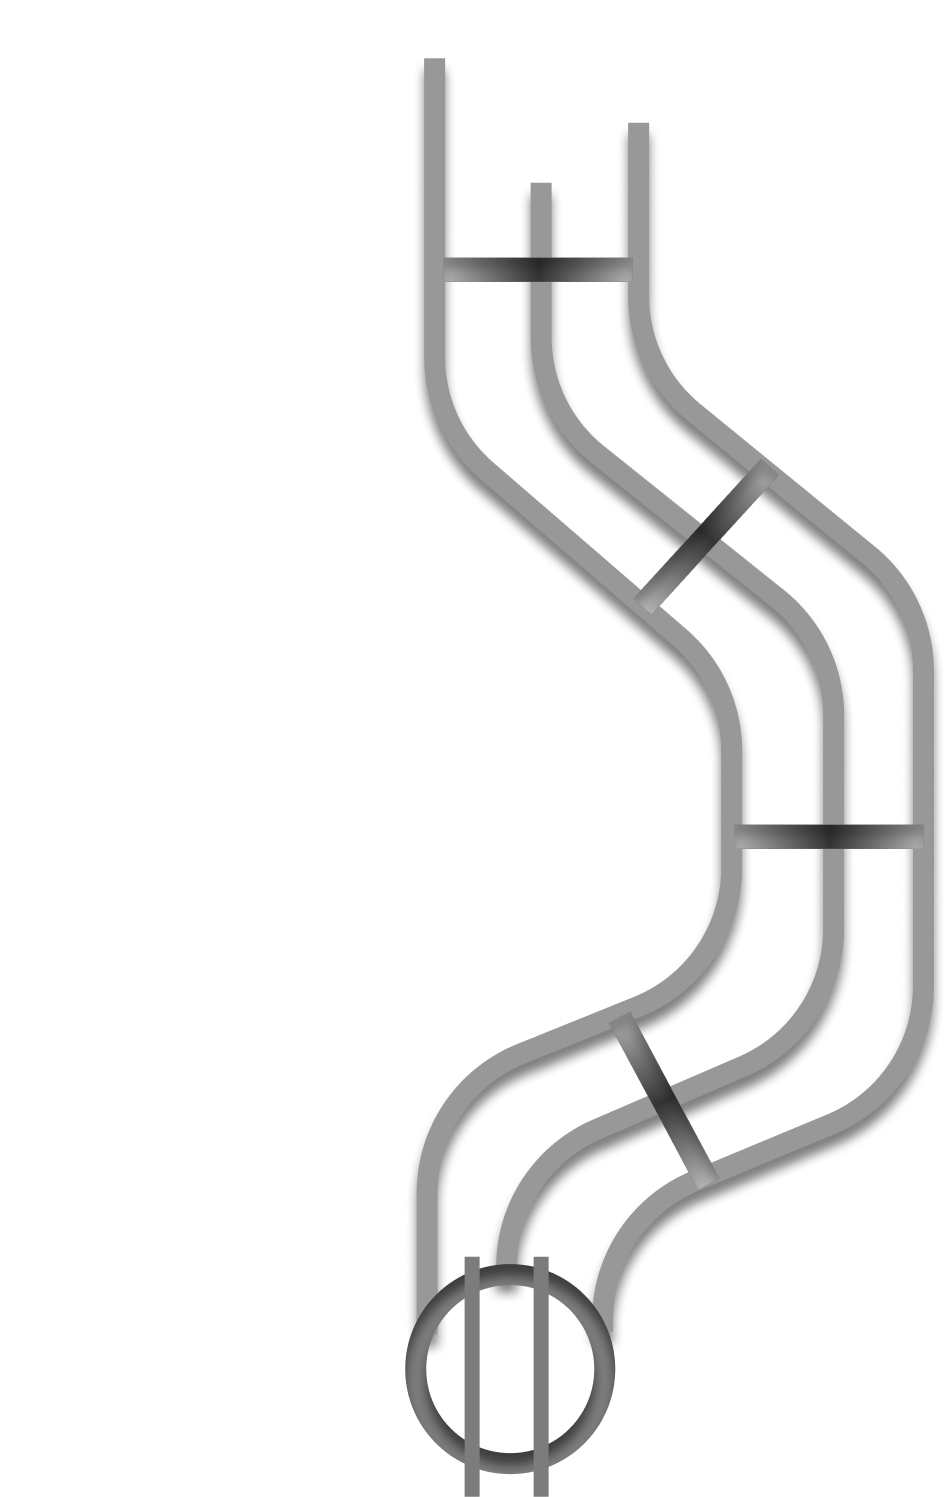
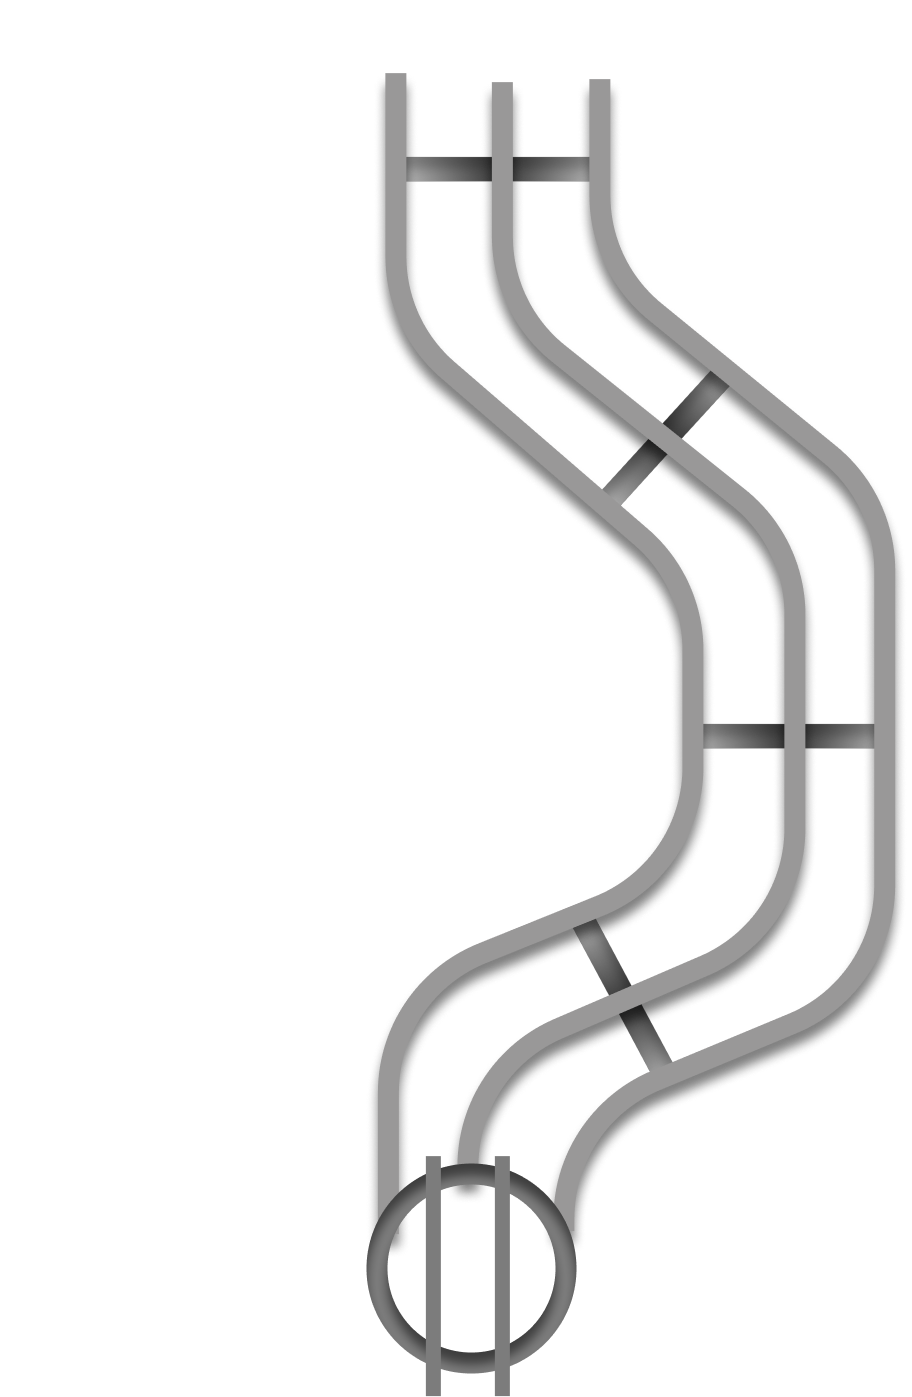
RailsMythology

Changed region(s): [[0.3991, 0.0308, 1.0, 1.0]]

diff --git a/src/pinball/pinballData.ts b/src/pinball/pinballData.ts
@@ -121,6 +121,14 @@ import E_ITEMOff from "../assets/images/elements/AiRobot/E-ITEMOff.png";
 import M_ITEMOn from "../assets/images/elements/AiRobot/M-ITEMOn.png";
 import M_ITEMOff from "../assets/images/elements/AiRobot/M-ITEMOff.png";
 
+// Money MYTHOLOGY
+import MoneyOff from "../assets/images/elements/Mythology/Money_Off.png";
+import MoneyOn from "../assets/images/elements/Mythology/Money_On.png";
+
+// Rails MYTHOLOGY
+import RailsLeft from "../assets/images/elements/Mythology/RailLeft.png";
+import RailsRight from "../assets/images/elements/Mythology/RailRight.png";
+
 // Flash MYTHOLOGY
 import FlashOff from "../assets/images/elements/Mythology/FlashOff.png";
 import FlashOn from "../assets/images/elements/Mythology/FlashOn.png";
@@ -1191,9 +1199,9 @@ export const pinballData: Record<PinballKey, PinballConfig> = {
     launch: LaunchMythology,
     physics: { gravity: -0.004, bounce: 0.8 },
     // ✅ Balle + caméra GoldWheel
-    ballStartX: 4.3,
-    ballStartY: 2.8,
-    cameraFocusY: 2.0,
+    ballStartX: 4.7,
+    ballStartY: 1.55,
+    cameraFocusY: 0.3,
     colliders: [
       { type: "bumper", x: 2, y: 10, radius: 0.5, force: 0.08, score: 100 },
       { type: "hole", x: -1, y: 5, radius: 0.6, score: 500 },
@@ -1756,6 +1764,59 @@ export const pinballData: Record<PinballKey, PinballConfig> = {
         size: 0.6,
         imgOff: PERSEPHONEOff,
         imgOn: PERSEPHONEOn,
+      },
+      // ── Ellipse Blanc à chiffre (Off/On) ──
+      {
+        id: "money1",
+        type: "circle",
+        x: -4,
+        y: 8.5,
+        blink: true,
+        size: 0.3,
+        imgOff: MoneyOff,
+        imgOn: MoneyOn,
+      },
+      {
+        id: "money2",
+        type: "circle",
+        x: -4.05,
+        y: 7.95,
+        blink: true,
+        size: 0.3,
+        imgOff: MoneyOff,
+        imgOn: MoneyOn,
+      },
+      {
+        id: "money3",
+        type: "circle",
+        x: -4.1,
+        y: 7.4,
+        blink: true,
+        size: 0.3,
+        imgOff: MoneyOff,
+        imgOn: MoneyOn,
+      },
+      {
+        id: "railsLeft",
+        type: "spring",
+        x: -1.66,
+        y: 11.8,
+        alwaysOn: true,
+        // size: 7,
+        width: 6.6,
+        height: 12.8,
+        imgOff: RailsLeft,
+      },
+      {
+        id: "railsRight",
+        type: "spring",
+        x: 3.5,
+        y: 9,
+        alwaysOn: true,
+        // size: 7,
+        width: 3.05,
+        height: 8.4,
+        imgOff: RailsRight,
       },
     ],
     scoring: { multiplierMax: 10 },
